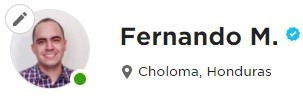
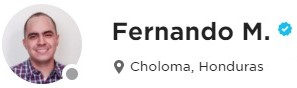
Improvements in Upwork Profile Img in Portfolio

diff --git a/FirstRateProgrammersWeb/wwwroot/css/site.css b/FirstRateProgrammersWeb/wwwroot/css/site.css
@@ -435,6 +435,12 @@ ul.social-buttons li a:active, ul.social-buttons li a:focus, ul.social-buttons l
     height: 100vh;
 }
 
+.upwork-profile-img {
+    margin-bottom: 0px !important;
+    margin-top: 20px;
+
+}
+
 @media (min-width: 300px) {
     .col-12.FixPosition {
         background: rgba(0,0,0,0.41);
